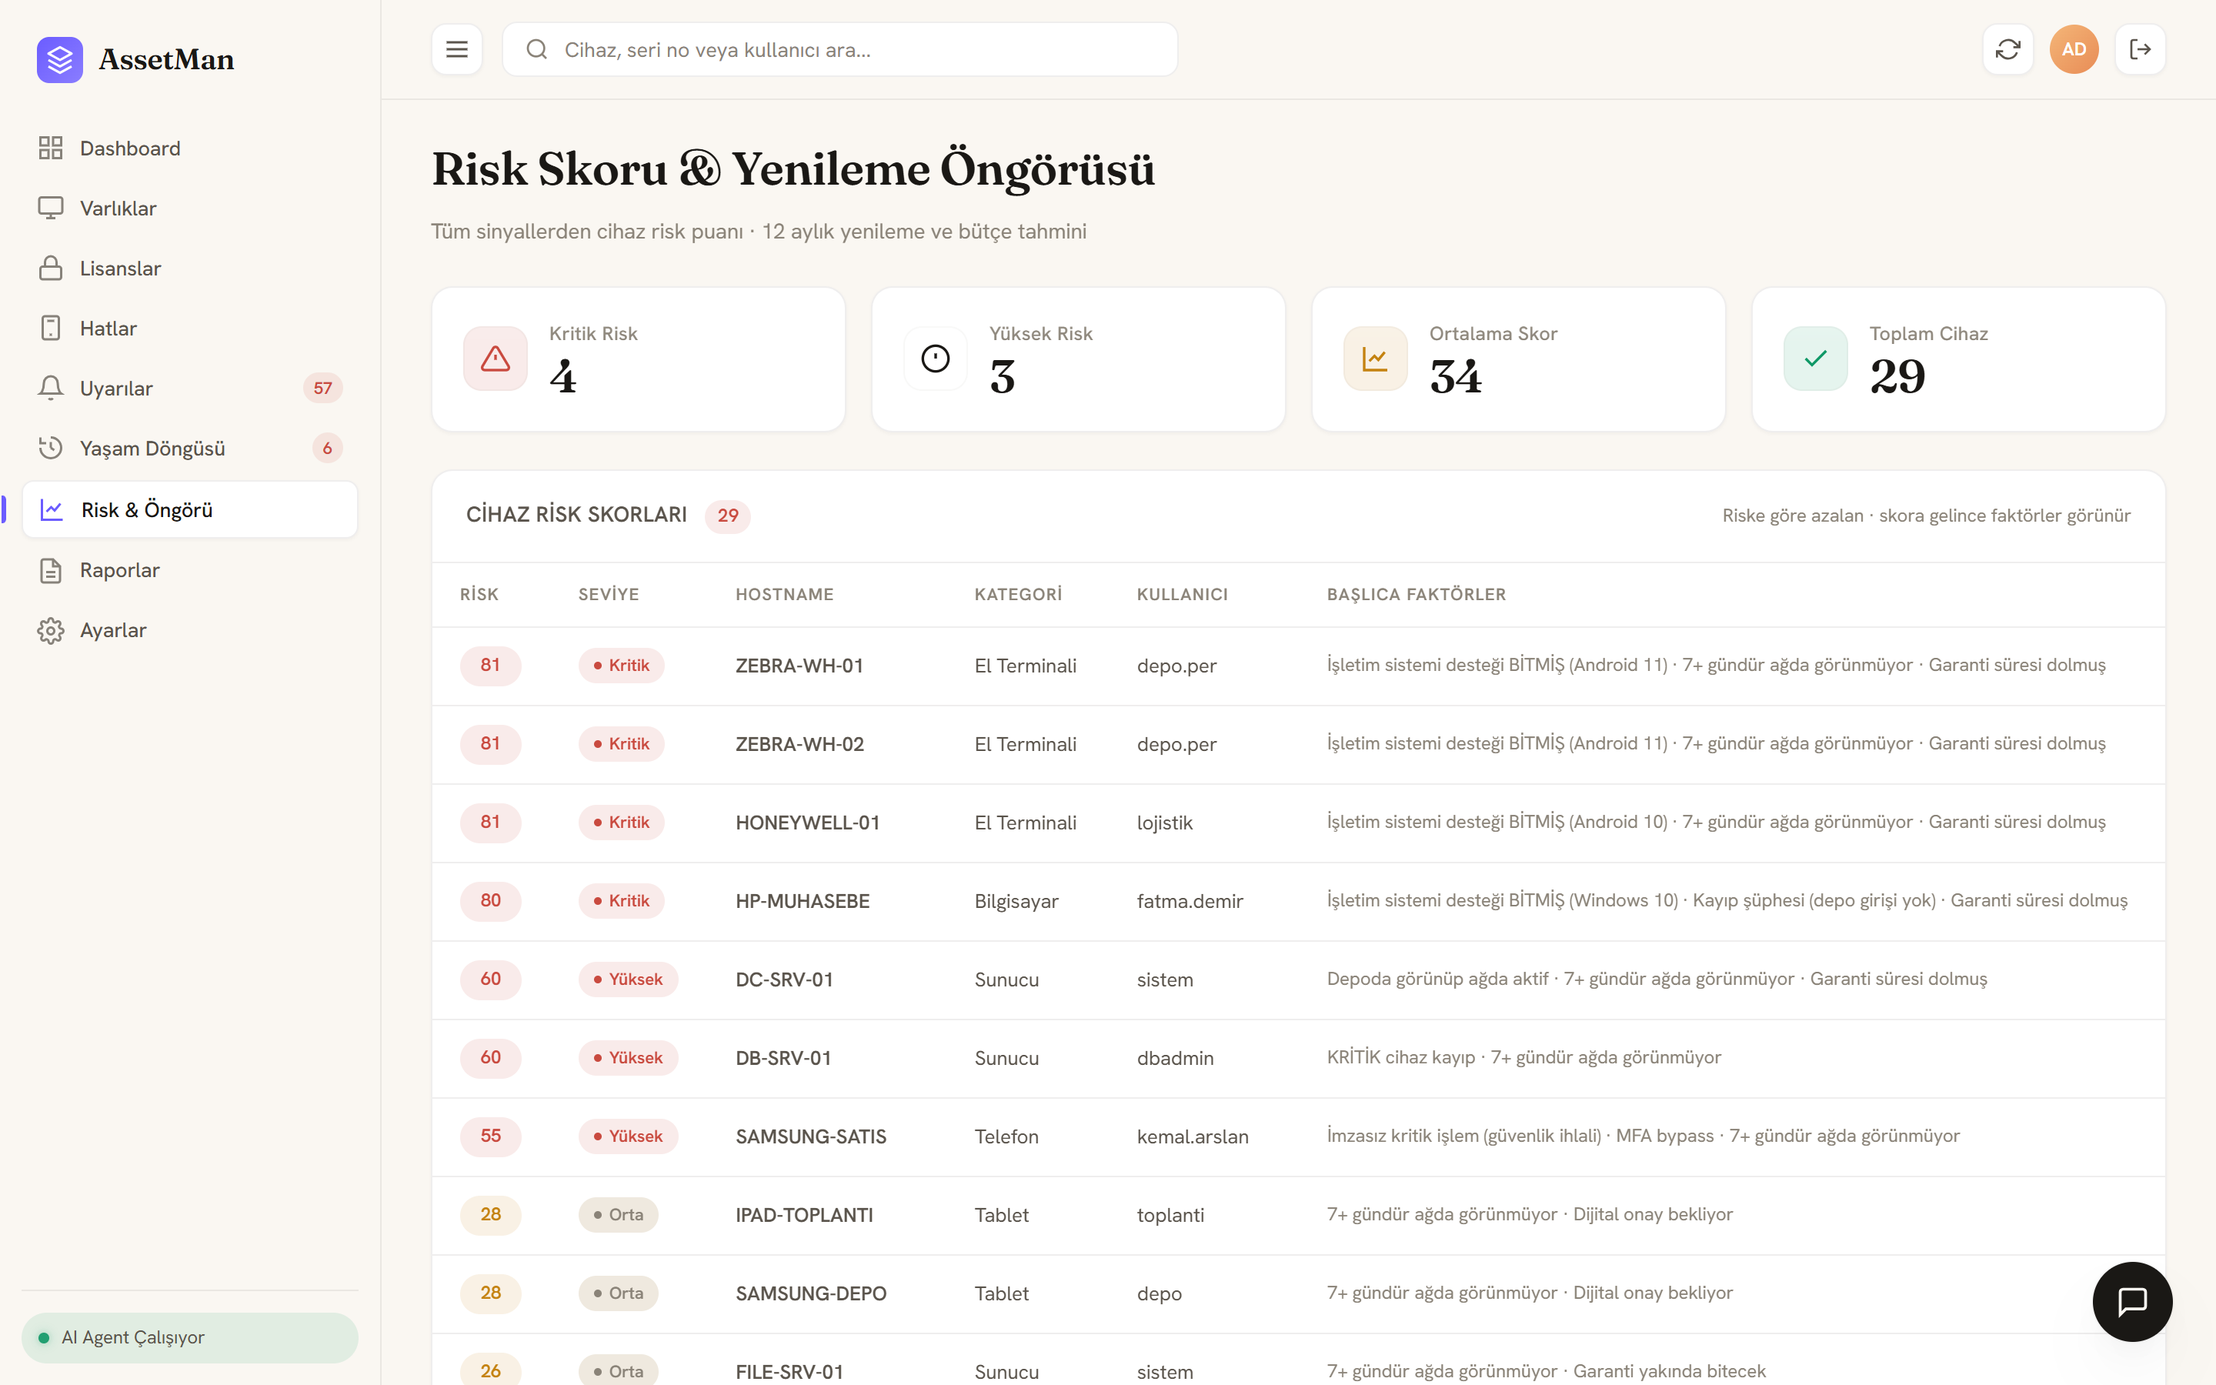
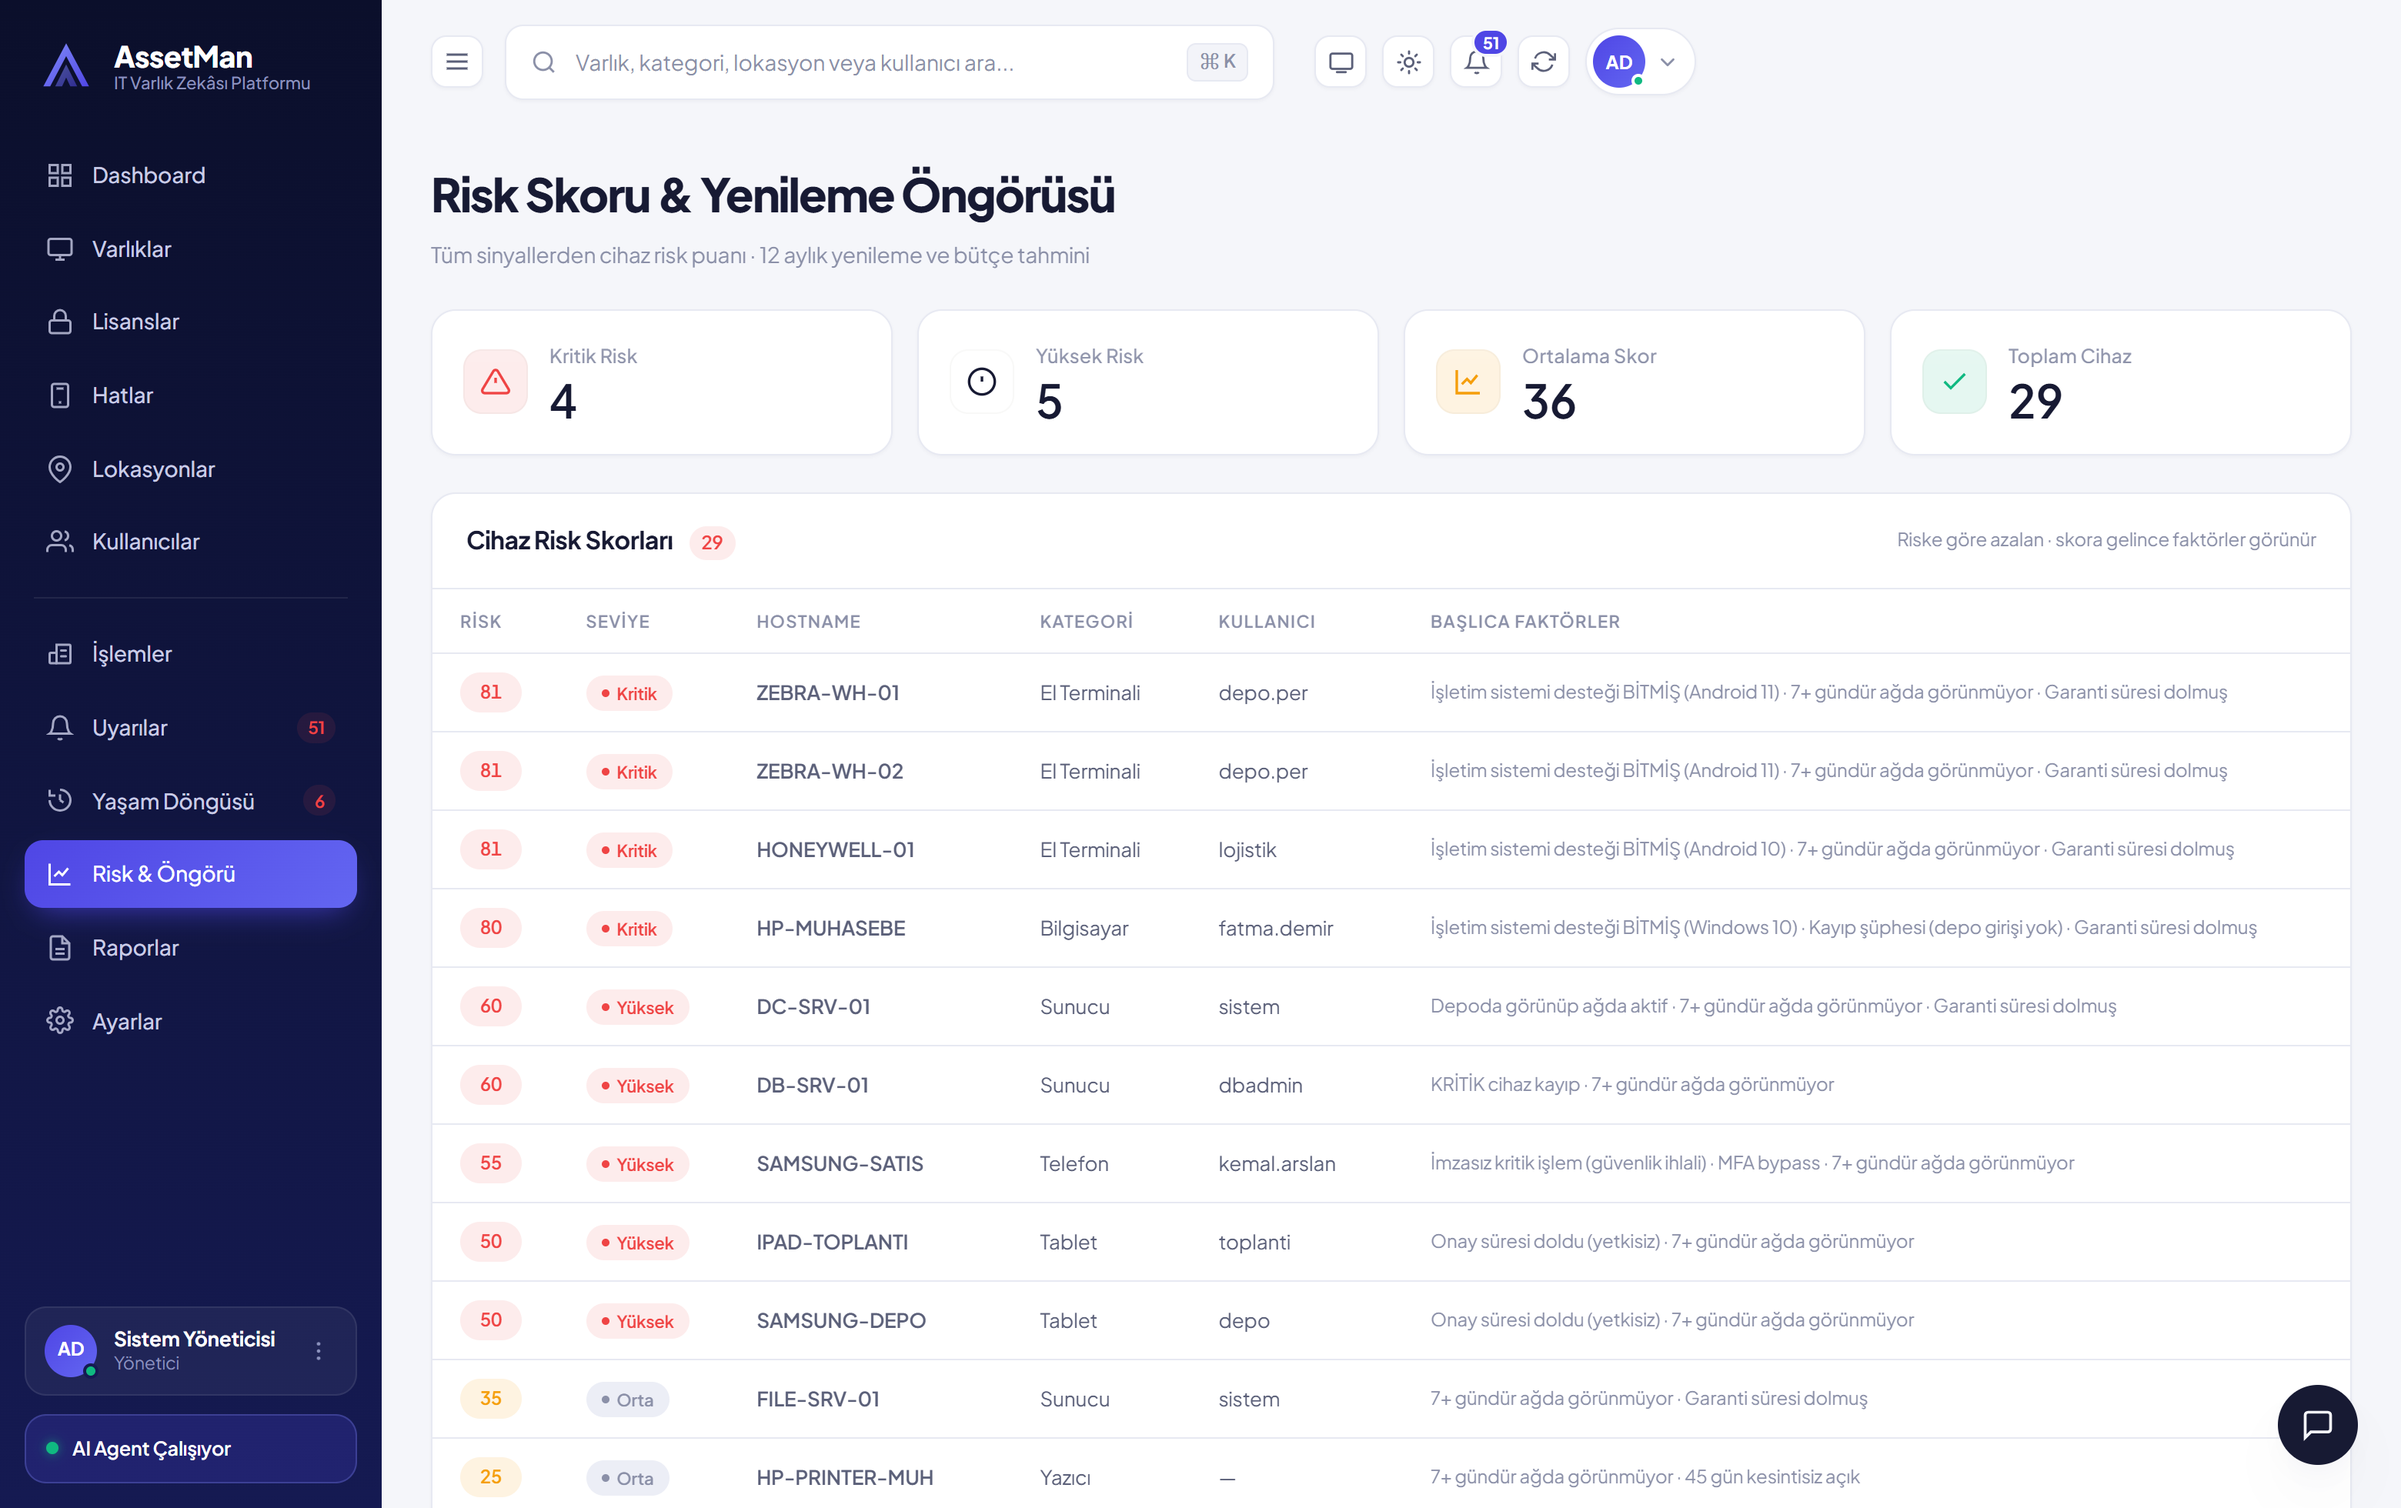
README sunuma hazirlandi: guncel ekran goruntuleri + eksik/eski bilgiler
LinkedIn/public paylasim oncesi repo hijyeni:
- Ekran goruntuleri 14 Temmuz'dandi (indigo yeniden tasarimindan ONCE, terk
  edilen krem tema). 8 gorunum GUNCEL indigo arayuzden 2x DPI yeniden uretildi
  (hero-dashboard, assets, lines, insights, lifecycle, settings, device-modal
  + YENI: reports).
- Test rozeti 28/28 -> 70/70.
- Hero alt metni ve mimari diyagramindaki "sicak-modern" -> "indigo".
- Raporlar modulu README'de HIC yoktu: ozellik listesine, galeriye ve API
  tablosuna eklendi (A4 PDF ureteci + AI yonetici yorumu).
- API tablosu duzeltildi: backup/restore artik admin (auth degil - BAC
  duzeltmesi), notify/run eklendi (it/admin), reports/ai-comment eklendi.
- Test bolumune uc yeni katman yazildi (API entegrasyon, tarayici duman,
  guvenlik) + pentest hikayesi notu.

Not: git gecmisi ve izlenen n8n dosyalari kontrol edildi - gercek sir
sizintisi YOK (n8n token'i Config referansi + yer tutucu, .env/secrets.json
gitignore'da).

diff --git a/README.md b/README.md
@@ -9,7 +9,7 @@ Değiştirilemez audit log · çift dijital onay · gerçek AD/LDAP girişi · c
 [![Node](https://img.shields.io/badge/node-%E2%89%A518-339933?logo=node.js&logoColor=white)](https://nodejs.org)
 [![Express](https://img.shields.io/badge/express-4.x-000000?logo=express&logoColor=white)](https://expressjs.com)
 [![Database](https://img.shields.io/badge/db-SQLite%20%7C%20PostgreSQL-336791?logo=postgresql&logoColor=white)](#kurulum)
-[![Tests](https://img.shields.io/badge/tests-28%2F28%20passing-22c55e)](#test)
+[![Tests](https://img.shields.io/badge/tests-70%2F70%20passing-22c55e)](#test)
 [![License](https://img.shields.io/badge/license-see%20LICENSE-blue)](./LICENSE)
 [![Status](https://img.shields.io/badge/status-active-success)]()
 
@@ -18,7 +18,7 @@ Değiştirilemez audit log · çift dijital onay · gerçek AD/LDAP girişi · c
 ---
 
 <p align="center">
-  <img src="docs/screenshots/hero-dashboard.png" alt="AssetMan — Dashboard (sıcak-modern arayüz)" width="880"/>
+  <img src="docs/screenshots/hero-dashboard.png" alt="AssetMan — Dashboard (indigo arayüz)" width="880"/>
 </p>
 
 ## Niçin AssetMan?
@@ -74,7 +74,9 @@ Piyasadaki çoğu envanter aracı (Snipe-IT, Lansweeper, GLPI) cihazın **son du
 </td>
 <td valign="top">
 
-### FinOps & AI
+### Raporlar, FinOps & AI
+- **A4 PDF rapor üreteci** — 6 rapor türü, deterministik (sayılar uydurulmaz)
+- **AI yönetici yorumu** — LLM yorumlar, çıktı denetlenir; uydurma sayı/dil reddi
 - **Gerçek döviz kuru** (ECB / frankfurter.app) — önbellekli, çevrimdışı fallback
 - 12 aylık yenileme öngörüsü (EOL + garanti birleşik)
 - Cihaz risk skoru (0-100, çok kaynaklı)
@@ -111,7 +113,7 @@ flowchart LR
     LDAP[LDAP / Active Directory]
     BR[(Envanter deposu<br/>SQL veya Baserow<br/>INVENTORY_PROVIDER)]
     N8N[n8n Webhook<br/>Mail · Telegram]
-    UI[Web Panel<br/>sıcak-modern · light/dark]
+    UI[Web Panel<br/>indigo · light/dark · responsive]
 
     PS --> N8N --> BR
     QR --> API
@@ -149,6 +151,16 @@ flowchart LR
 <td align="center" width="50%">
   <a href="docs/screenshots/settings.png"><img src="docs/screenshots/settings.png" alt="Ayarlar — eşikler ve sistem durumu" width="420"/></a>
   <br/><b>Ayarlar</b><br/>Tespit eşikleri UI'dan canlı düzenlenir (restart yok) · tema · sistem durumu
+</td>
+</tr>
+<tr>
+<td align="center" width="50%">
+  <a href="docs/screenshots/reports.png"><img src="docs/screenshots/reports.png" alt="Raporlar — A4 PDF üreteci + AI yorumu" width="420"/></a>
+  <br/><b>Raporlar</b><br/>6 rapor türü · A4 PDF önizleme · deterministik sayılar + AI yönetici yorumu
+</td>
+<td align="center" width="50%">
+  <a href="docs/screenshots/lifecycle.png"><img src="docs/screenshots/lifecycle.png" alt="Yaşam döngüsü — değiştirilemez audit log" width="420"/></a>
+  <br/><b>Yaşam Döngüsü</b><br/>HMAC hash zinciri · çift onay · WORM yedek senkronu
 </td>
 </tr>
 </table>
@@ -423,6 +435,14 @@ Node'un yerleşik test runner'ı (`node:test`) — dış bağımlılık yok. Çe
 - OS Agent handshake (spoofing tespiti)
 - **Zimmet devir koruması** (zaten zimmetli cihaz force olmadan devralınamaz)
 - **Turkcell hat/SIM** (oluştur→ata→taşı→geçmiş + MSISDN normalize)
+
+Çekirdek birim testlerinin üstüne üç katman daha eklendi (toplam **70/70**):
+
+- **API entegrasyon** — sunucu alt süreçte, gerçek HTTP; oturum sınırı, tüm okuma uçları, güvenlik başlıkları/çerez bayrakları
+- **Tarayıcı duman testi** (puppeteer) — 12 görünüm gerçekten açılıyor mu, konsol/ağ temiz mi, rol bazlı arayüz, stored-XSS kaçışı
+- **Güvenlik** — kırık erişim denetimi (BAC) yetki matrisi, jeton bütünlüğü & yetki yükseltme reddi, injection ile giriş atlatma, login rate-limit kilidi
+
+> Bu testler **kendi deploymentımıza yetkili pentest** sırasında yazıldı ve yazılırken iki gerçek erişim-denetimi açığı buldu (`backup/restore`, `notify/run` rol koruması eksikti) — ikisi de kapatıldı ve teste bağlandı.
 - **Ayarlar deposu** (setSection tip-doğrulama + kalıcılık)
 - Döviz dönüşümü · SQL driver seçimi
 
@@ -474,7 +494,10 @@ Register-ScheduledTask -TaskName "AssetCollector" -Action $action -Trigger $trig
 | `POST /api/lifecycle/renew` | it / admin | Onay talebini yenile |
 | `GET /api/lifecycle/{log,conflicts,verify}` | auth | Audit log & doğrulama |
 | `GET /api/network/scan` | auth | VLAN-segmentli canlı ağ keşfi |
-| `GET /api/backup/status` · `POST /api/backup/restore` | auth | WORM yedek |
+| `GET /api/backup/status` | auth | WORM yedek durumu |
+| `POST /api/backup/restore` | admin | WORM yedekten geri yükleme (yıkıcı) |
+| `POST /api/reports/ai-comment` | auth | Rapor için AI yönetici yorumu (denetimli) |
+| `POST /api/notify/run` | it / admin | Uyarı özetini dışa gönder (mail/Telegram) |
 | `GET /api/risk-scores` · `forecast` | auth | Risk & FinOps (canlı ECB kuru) |
 | `GET /api/lines` · `POST /api/lines/import` | auth / it | Turkcell hat/SIM envanteri + CSV |
 | `POST /api/assets/:id/assign` · `release` | it / admin | Resmi zimmet devri (409 koruma) |
